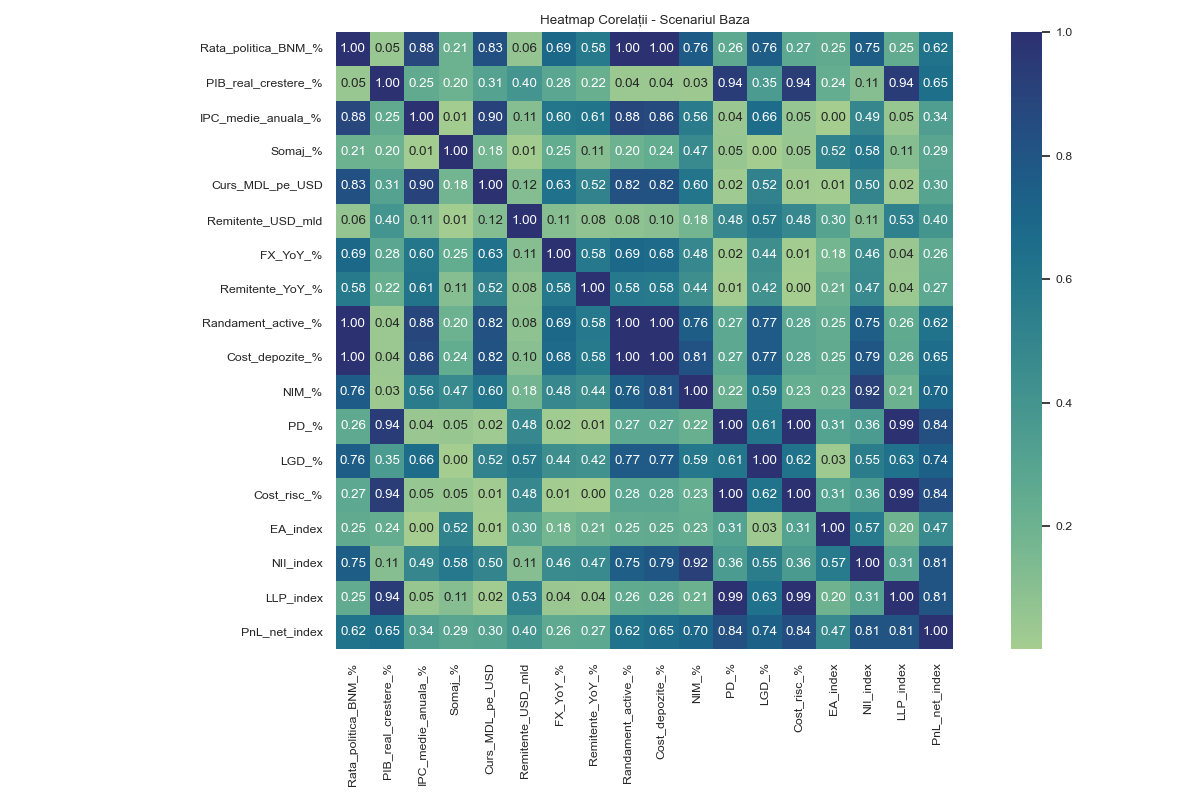
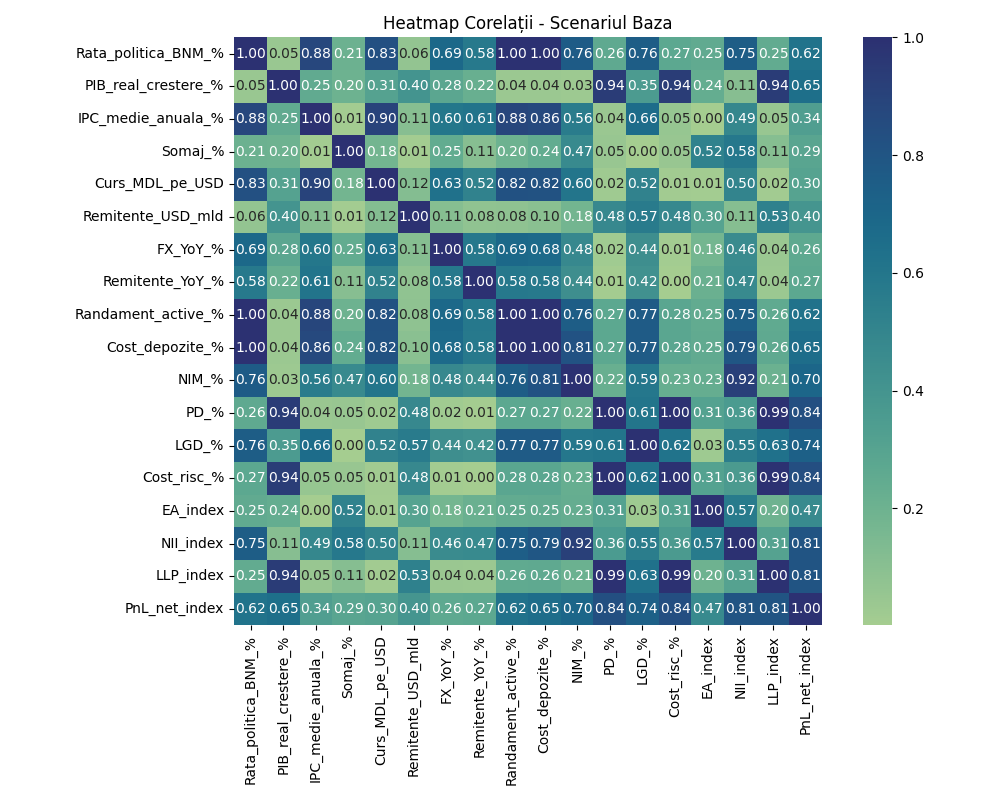
fixed corelation images

diff --git a/gener_corelatii.py b/gener_corelatii.py
@@ -27,8 +27,6 @@ cols_to_use = [
 ]
 all_cols = cols_to_use + ["PnL_net_index"]
 
-# Stil global
-sns.set(style="white", font_scale=0.8)
 
 # Parcurgem toate scenariile
 for scen in scenarios:
@@ -39,7 +37,7 @@ for scen in scenarios:
         df = df.dropna(subset=all_cols)
         corr = df[all_cols].corr().abs()
 
-        plt.figure(figsize=(12, 8))
+        plt.figure(figsize=(10, 8))
         sns.heatmap(corr, annot=True, fmt=".2f", cmap="crest", square=True)
         plt.title(f"Heatmap Corelații - Scenariul {scen}")
         plt.tight_layout()
